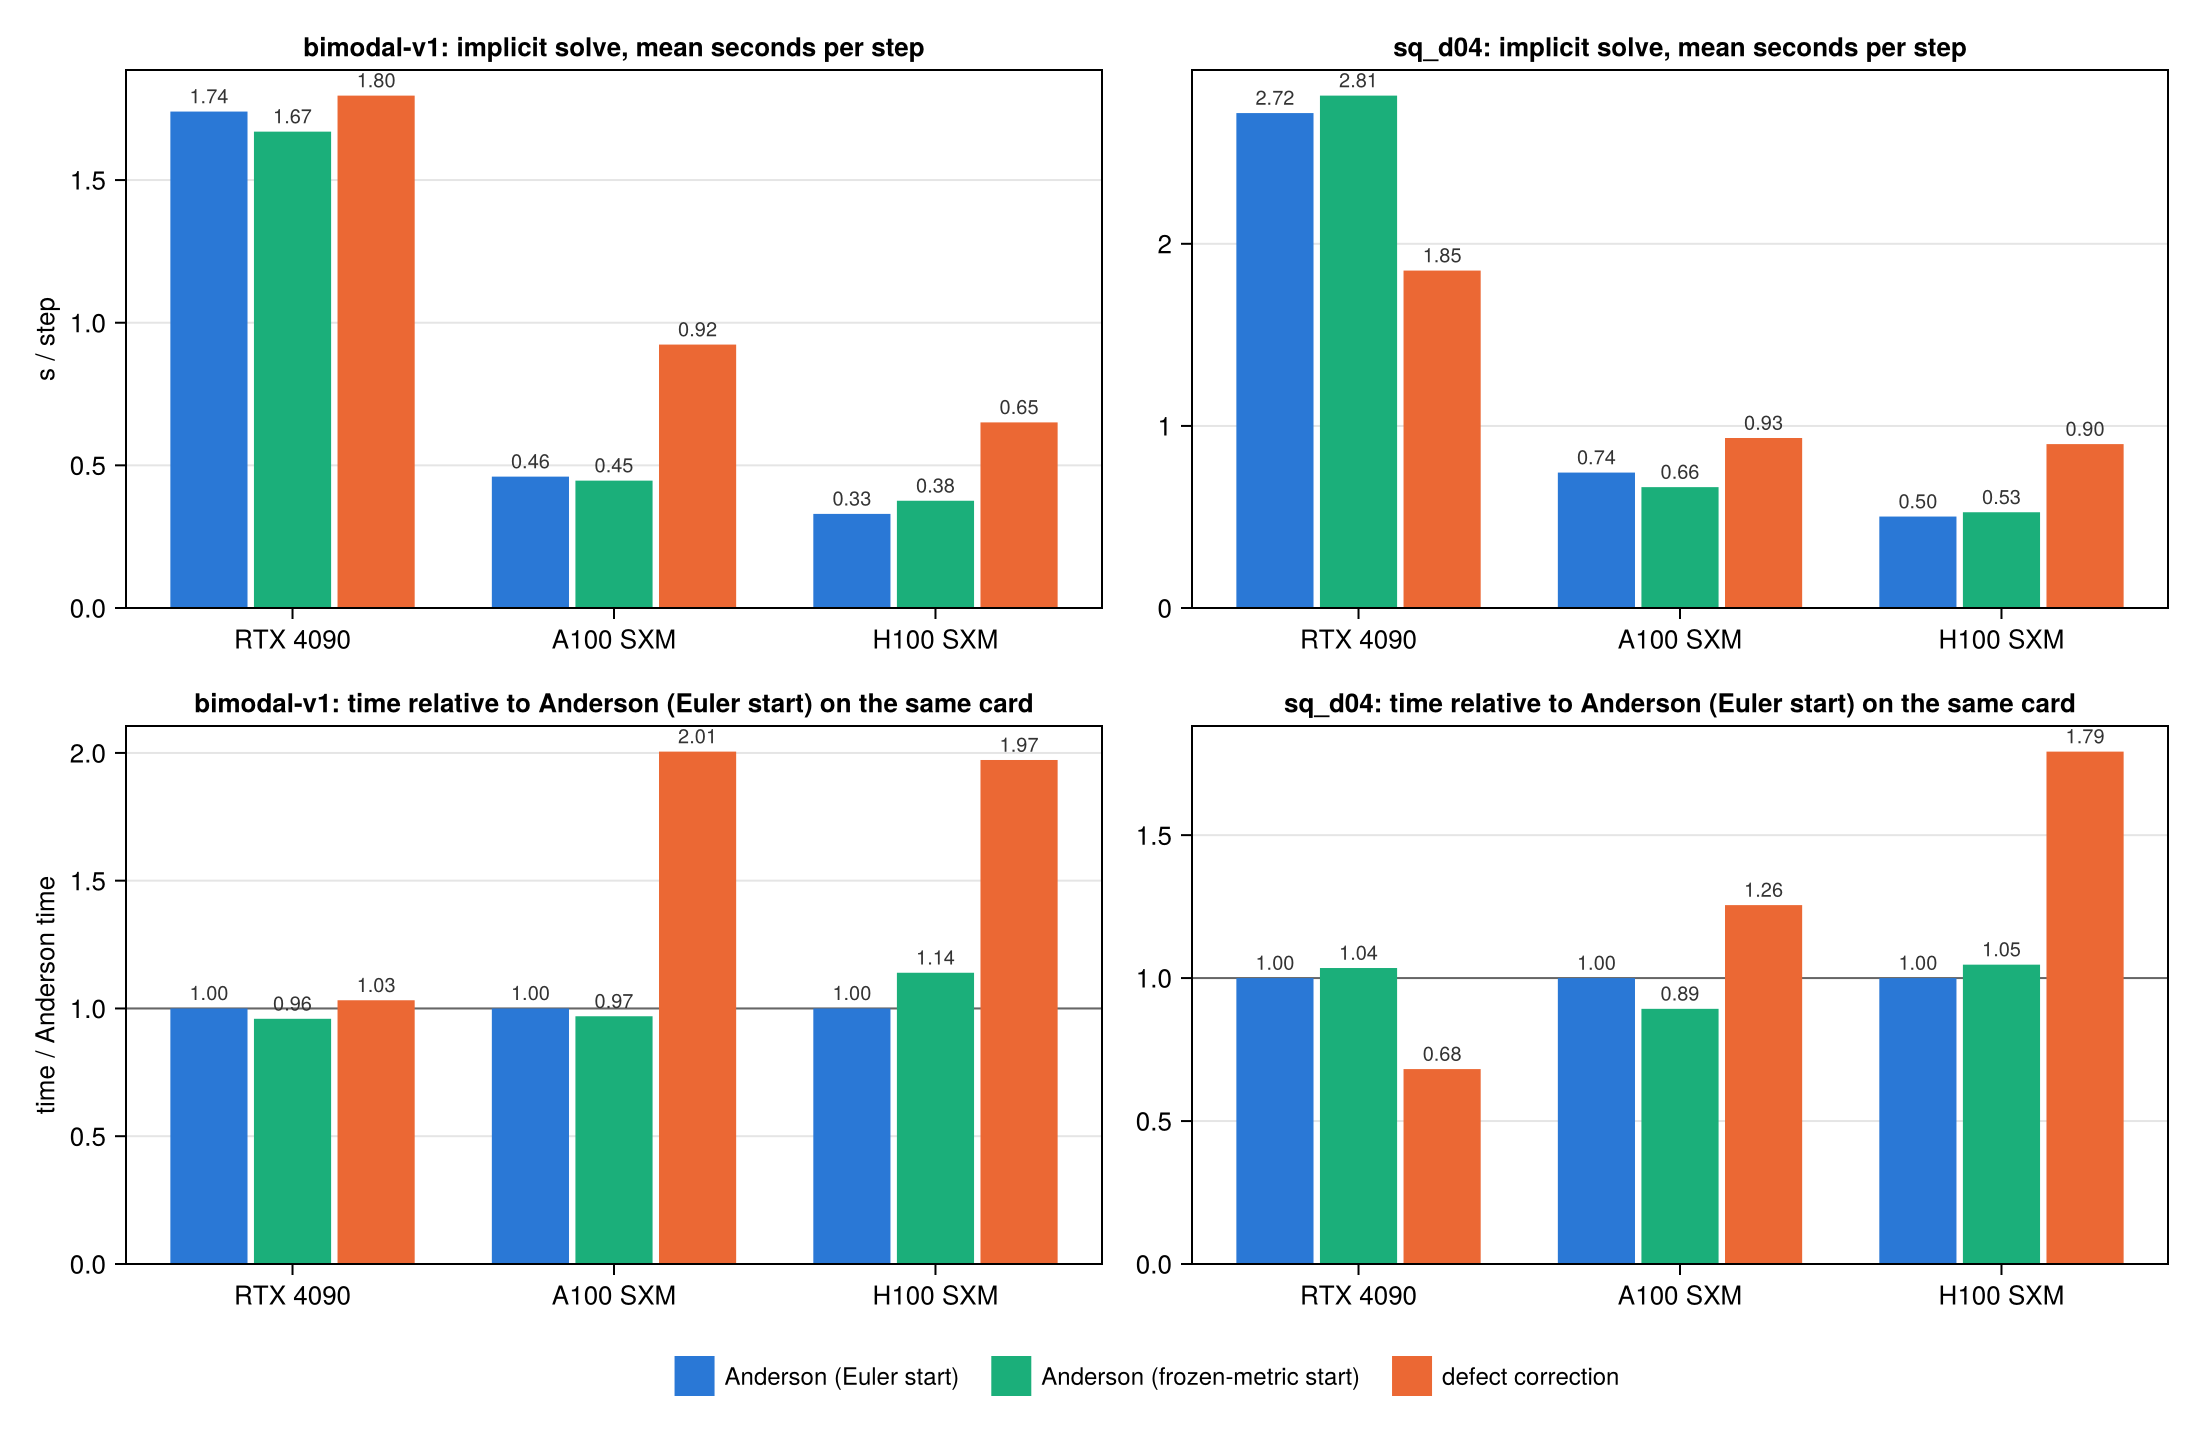
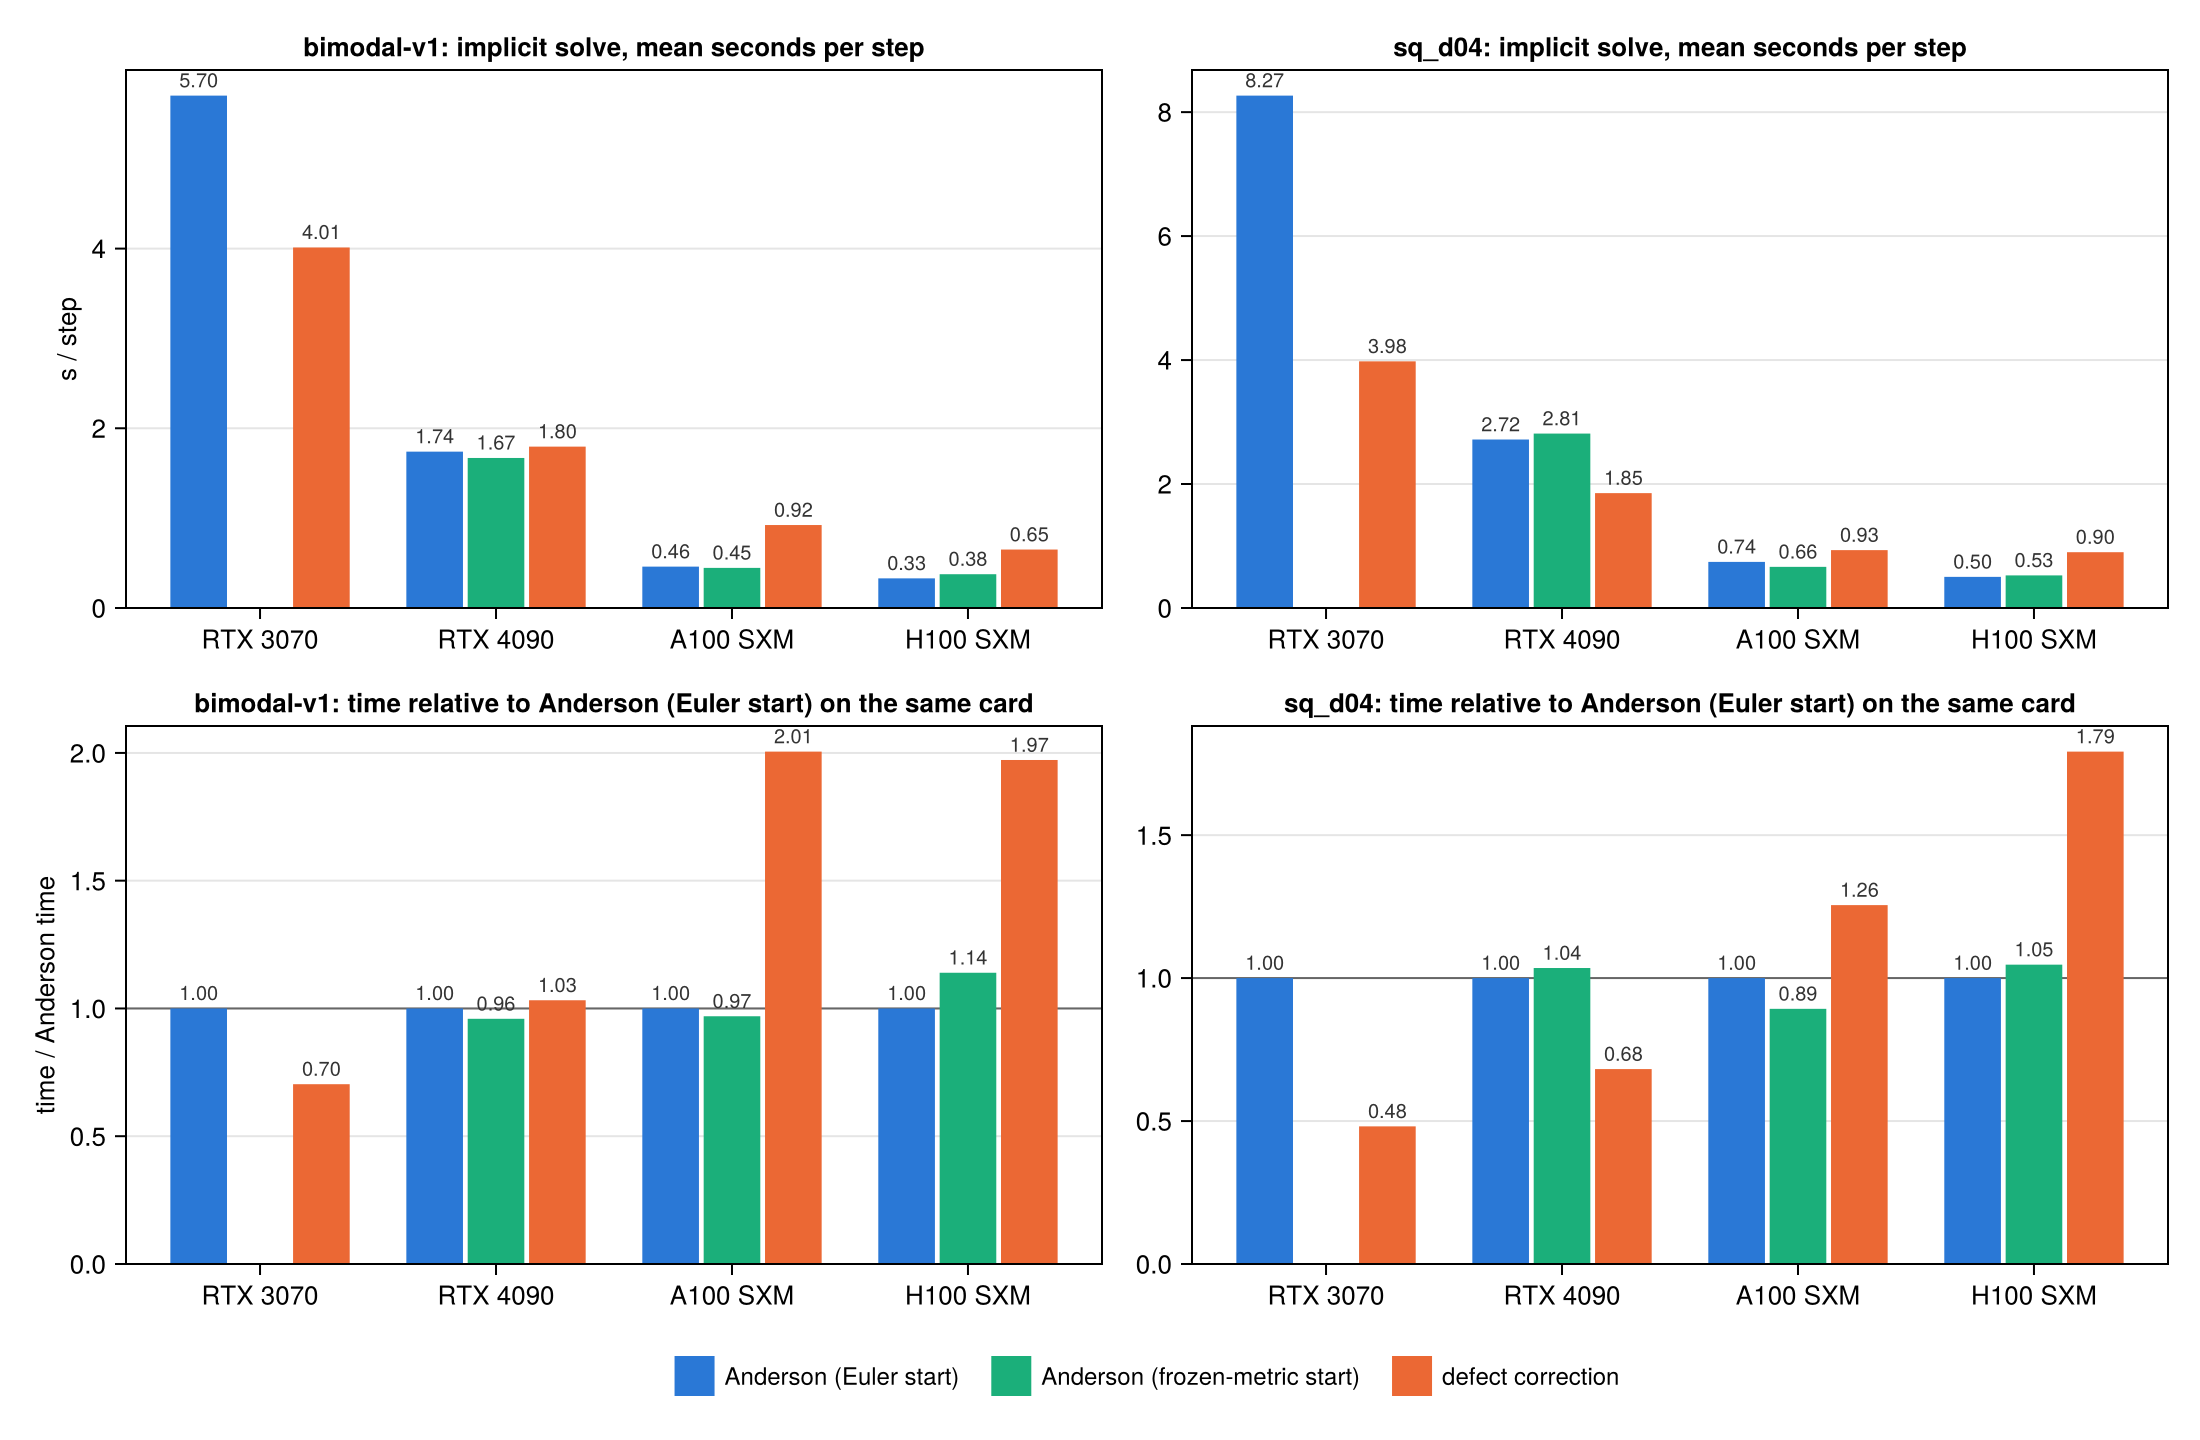
docs(defect): add RTX 3070 results
- Add RTX 3070 runs: defect correction 1.42x faster on bimodal and 2.08x on sq_d04, with K/O ~ 9 above both break-even thresholds
- Add the 3070 rows to the wall-time and cost-model tables and redraw the figures
- Update the summary and conclusions: defect correction wins on consumer FP64 GPUs, Anderson on A100/H100

diff --git a/docs/src/defect_correction.md b/docs/src/defect_correction.md
@@ -10,30 +10,32 @@ This page compares three ways of solving the implicit Landau step in FP64:
    inner model of the step, corrected by one full Picard map per outer iteration.
 
 All three reach the same fixed point and return it through the same conservative
-final Picard update. The comparison ran on three GPUs whose FP64 throughput differs by
-a factor of about 16: an RTX 4090, an A100 and an H100.
+final Picard update. The comparison ran on four GPUs whose FP64 pair sum takes from
+313 ms down to 5 ms: an RTX 3070, an RTX 4090, an A100 and an H100. The RTX 3070 ran
+Anderson and defect correction only.
 
 **Summary.**
 
 - **Iterations.** Defect correction needs 2.2–3.5× fewer full maps per step (7.2–7.5
-  against 16–26) and almost never stalls: 0–1 stalled steps in 1000, against 20–110 for
+  against 16–26) and almost never stalls: 0–2 stalled steps in 1000, against 20–110 for
   Anderson.
-- **Conservation.** Without stalls, its energy drift after 1000 steps is 10–380×
-  smaller: $10^{-14}$–$10^{-13}$ against $2\times10^{-13}$–$10^{-12}$ (bimodal), and
-  $10^{-13}$–$10^{-12}$ against $4$–$6\times10^{-11}$ (sq_d04). Momentum stays at
+- **Conservation.** Without stalls, its energy drift after 1000 steps is 10–550×
+  smaller: $5\times10^{-15}$–$10^{-13}$ against $2\times10^{-13}$–$10^{-12}$ (bimodal), and
+  $6\times10^{-14}$–$10^{-12}$ against $3$–$6\times10^{-11}$ (sq_d04). Momentum stays at
   roundoff ($\le 2\times10^{-14}$) for all three methods.
-- **Wall time.** This depends on the card. On the RTX 4090 it is **1.47× faster than
-  Anderson on sq_d04** and ties on bimodal (1.03×). On the A100 and H100 it is 1.3–2.0×
-  slower. Each cheap inner map still costs 11–18 ms of per-iteration overhead that does
-  not depend on the card, and a step needs about 50 of them.
+- **Wall time.** This depends on the card. On the RTX 3070 it is **1.42× faster than
+  Anderson on bimodal and 2.08× faster on sq_d04**. On the RTX 4090 it is 1.47× faster on
+  sq_d04 and ties on bimodal (1.03×). On the A100 and H100 it is 1.3–2.0× slower. Each
+  cheap inner map still costs 9–18 ms of per-iteration overhead that does not depend on
+  the card, and a step needs about 50 of them.
 - **Frozen-metric start.** It saves 1–2 full maps per step, which is worth −11 % to +14 % in
   time depending on card and case. That is not a reliable gain.
 - **When defect correction pays.** It pays when the FP64 pair sum $K$ is expensive
   compared with the per-iteration overhead $O$. The threshold falls the more Anderson
   stalls: $K/O \gtrsim 6$ on bimodal, $\gtrsim 2$ on sq_d04 (see
-  [Cost model](#Cost-model)). Consumer cards with 1/64-rate FP64 meet it: the RTX 4090
-  has $K/O \approx 3$, and the RTX 30 series about 10. The A100 and H100 have
-  $K/O < 1$ and do not.
+  [Cost model](#Cost-model)). Consumer cards with 1/64-rate FP64 meet it: the RTX 3070
+  has $K/O \approx 9$ and wins on both cases, and the RTX 4090 has $K/O \approx 3$ and
+  wins on sq_d04. The A100 and H100 have $K/O < 1$ and do not.
 
 ## Background: why not a better initial guess?
 
@@ -142,10 +144,11 @@ $A$ costs 1.25–1.34× the plain kernel at $N = 40\,000$. Every run also writes
   $N = 40\,000$, `DT = 0.001`, 1000 steps from $t = 0$, seed 42, FP64 pair kernel,
   `abs_floor = 1e-10`, `snap_every = 100`.
 - **Cards.** RTX 4090 (Secure, EUR-IS-1), A100 SXM 80 GB (Secure, US-WA-1) and H100
-  SXM (Secure, AP-IN-1). Commits `f24b3ce` and `8e52179` on `feat/warmstart-nn` (comment-only difference); the
-  solver code is the same as on `main`.
+  SXM (Secure, AP-IN-1) ran commits `f24b3ce` and `8e52179` on `feat/warmstart-nn`
+  (comment-only difference). The RTX 3070 (Community) ran `main` at `d07857b`, with
+  Anderson and defect correction only. The solver code is the same in all of them.
 - **Runs.** `logs/run_methods.sh` in the Runpod workspace runs the kernel check and
-  then the six runs per card, one after another. Data are under
+  then the runs of one card, one after another. Data are under
   `mpcdf-s3:collision-operators/meth-*-2026-10-09`, and the figures come from
   `plot_solver_methods.jl` in the plotting repository.
 - **History.** For comparison, earlier FP64 Anderson runs of the same setups: the original
@@ -185,14 +188,16 @@ same card:
 
 | case | card | Anderson | frozen start | defect |
 |:--|:--|--:|--:|--:|
+| bimodal | RTX 3070 | 5.70 | — | **4.01 (0.70×)** |
 | bimodal | RTX 4090 | 1.74 | 1.67 (0.96×) | 1.80 (1.03×) |
 | bimodal | A100 | 0.46 | 0.45 (0.97×) | 0.92 (2.01×) |
 | bimodal | H100 | 0.33 | 0.38 (1.14×) | 0.65 (1.97×) |
+| sq_d04 | RTX 3070 | 8.27 | — | **3.98 (0.48×)** |
 | sq_d04 | RTX 4090 | 2.72 | 2.81 (1.04×) | **1.85 (0.68×)** |
 | sq_d04 | A100 | 0.74 | 0.66 (0.89×) | 0.93 (1.26×) |
 | sq_d04 | H100 | 0.50 | 0.53 (1.05×) | 0.90 (1.79×) |
 
-![Seconds per step by card and method (top) and relative to Anderson on the same card (bottom).](assets/solver_methods_walltime.png)
+![Seconds per step by card and method (top) and relative to Anderson on the same card (bottom). The RTX 3070 ran no frozen-start runs.](assets/solver_methods_walltime.png)
 
 ### Cost model
 
@@ -205,6 +210,7 @@ the defect runs:
 
 | card | full map | $K$ | $O$ | $K/O$ | inner map $c$ |
 |:--|--:|--:|--:|--:|--:|
+| RTX 3070 | 347 ms | 313 ms | 34 ms | 9.2–9.3 | 9–14 ms |
 | RTX 4090 | 106–107 ms | 79.9 ms | 26–28 ms | 2.9–3.1 | 17–18 ms |
 | A100 | 27–29 ms | 12.8 ms | 14–17 ms | 0.8–0.9 | 13.4 ms |
 | H100 | 18–19 ms | 5.0 ms | 13–14 ms | 0.4 | 11–13 ms |
@@ -221,17 +227,19 @@ The threshold depends on how often Anderson stalls. On bimodal Anderson needs ab
 per step, and defect correction pays from $K/O \approx 6$. On sq_d04 about 100 stalled steps of
 60–120 maps each raise Anderson's mean to about 25, and the threshold drops to
 $K/O \approx 2$. The RTX 4090, at $K/O \approx 3$, sits between the two, so the method ties
-on bimodal and wins on sq_d04.
+on bimodal and wins on sq_d04. The RTX 3070, at $K/O \approx 9$, is above both and wins on
+both, by 1.42× and 2.08×.
 
-The RTX 3080 probe that first suggested the method had $K \approx 220$ ms, so
-$K/O \approx 10$. There it measured 1.3–2.2× in map-equivalents. Those counts left out
-the inner iterations' Anderson overhead, which this run includes.
+The RTX 3080 probe that first suggested the method had $K \approx 220$ ms, and estimated
+1.3–2.2× from map counts alone. The RTX 3070 runs, which include the Anderson overhead of
+the inner iterations, land in the same range.
 
 ## Conclusions
 
-- In FP64 on consumer GPUs, defect correction is the better solver when Anderson
-  stalls often: 1.47× faster on sq_d04 on the RTX 4090, with energy drift 300× smaller.
-  On data-centre GPUs with full-rate FP64 (A100, H100), Anderson stays the fastest.
+- In FP64 on consumer GPUs, defect correction is the better solver: 1.42× (bimodal) and
+  2.08× (sq_d04) faster on the RTX 3070, 1.47× faster on sq_d04 on the RTX 4090, with energy
+  drift 45–550× smaller in those runs. On data-centre GPUs with full-rate FP64 (A100, H100),
+  Anderson stays the fastest.
 - Defect correction removes stalls and the energy drift they cause on every card. It
   needs 2.2–3.5× fewer full maps.
 - The frozen-metric start does not give a reliable gain.
